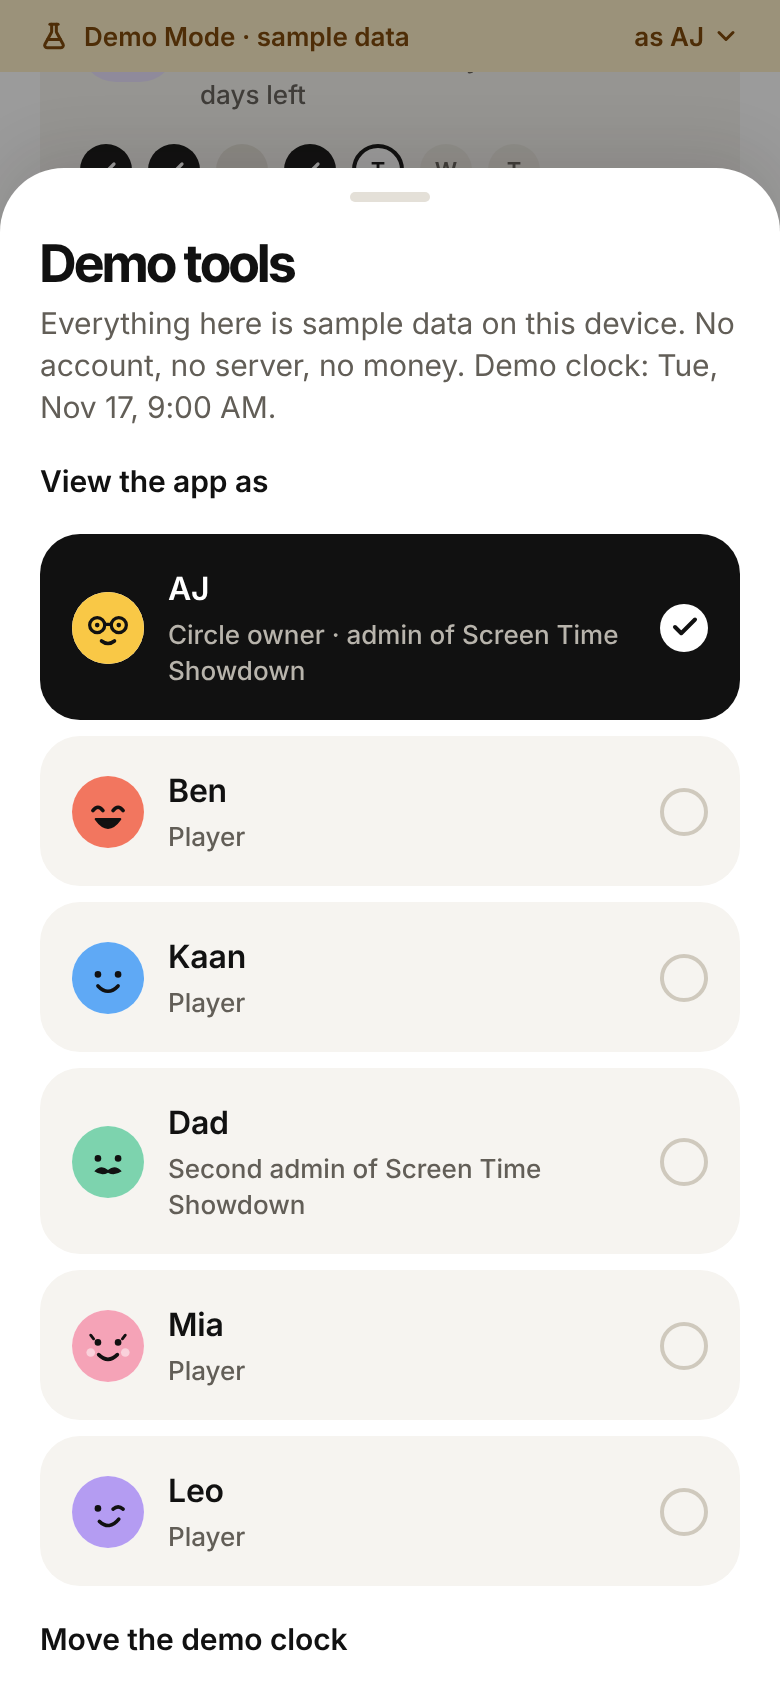
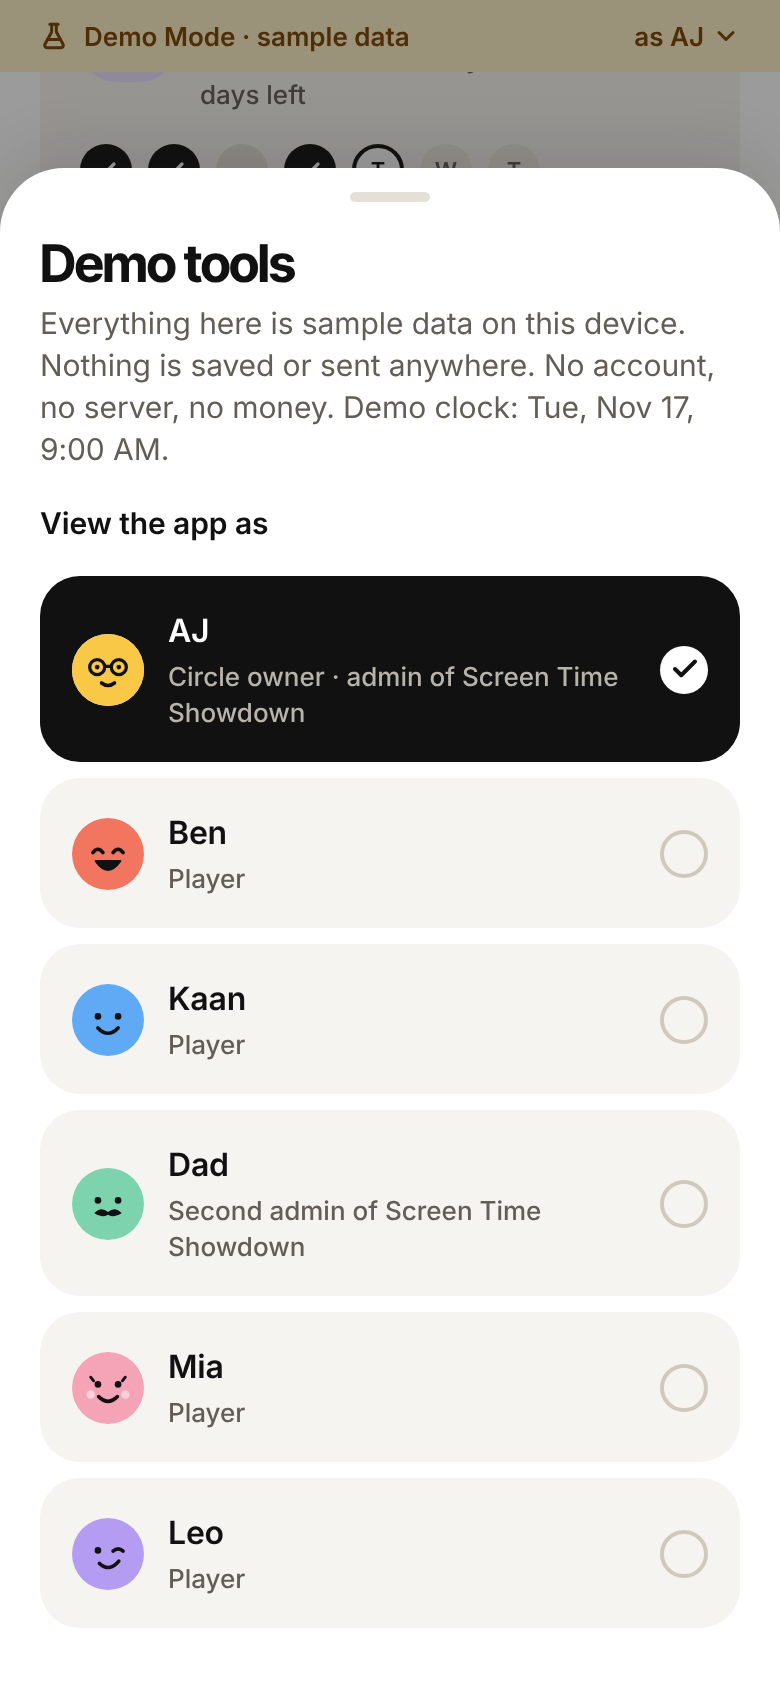
Review fixes: sole owner can leave, pill rows keep their scroll, tabs respect large text
Demo tools sheet states that nothing is saved or sent. Screenshots re-shot.

Claude-Session: https://claude.ai/code/session_01RvcYBmc9PTUB94qQ4VAk4J

diff --git a/src/features/shell/DemoBanner.tsx b/src/features/shell/DemoBanner.tsx
@@ -43,7 +43,7 @@ export function DemoBanner() {
         <View style={{ height: DEMO_BANNER_HEIGHT, paddingHorizontal: gutter, flexDirection: 'row', alignItems: 'center', gap: space.sm }}>
           <FlaskConical size={14} color={colors.warning} strokeWidth={2.6} />
           <Text variant="captionStrong" color="warning" style={{ flex: 1 }} numberOfLines={1}>
-            {signedIn && current ? 'Demo Mode · sample data' : 'Demo Mode · sample data, nothing is saved'}
+            Demo Mode · sample data
           </Text>
           {signedIn && current ? (
             <View style={{ flexDirection: 'row', alignItems: 'center', gap: 4 }}>
